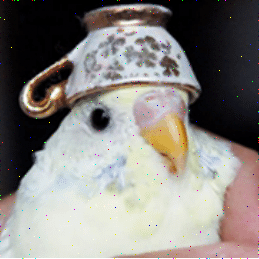
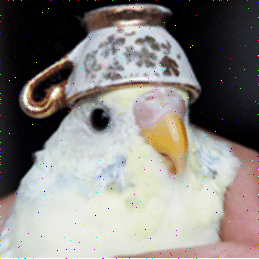
changed p parameter to p1 and p2 to addNoise, updated docstrings

diff --git a/utils.py b/utils.py
@@ -98,7 +98,7 @@ def combineChannels(R, G, B):
 
     return img
 
-def addNoise(channel, p=0.5, is_noisy=None):
+def addNoise(channel, p1=0.47, p2=0.47, is_noisy=None):
     '''
     Add randomized noise to channel.
 
@@ -106,9 +106,12 @@ def addNoise(channel, p=0.5, is_noisy=None):
     ----------
     channel : numpy.ndarray
         2-dimensional channel array.
-    p : float, optional
-        Probability of a pixel being converted to noise, should be in the
-        range ``[0, 1)``.
+    p1 : float, optional
+        Probability of a pixel being converted to positive impulse noise,
+        should be in the range ``[0, 1)``.
+    p2 : float, optional
+        Probability of a pixel being converted to negative impulse noise,
+        should be in the range ``[0, 1)``.
     is_noisy : numpy.ndarray, optional
         2-dimensional boolean array indicating which pixels should be
         converted to noise. If not provided, this is randomized.
@@ -120,7 +123,29 @@ def addNoise(channel, p=0.5, is_noisy=None):
     is_noisy : numpy.ndarray
         Boolean array of same shape as ``channel``, indicating which pixels
         have been converted to noise.
+
+    Notes
+    -----
+    This is an implementation of salt and pepper noise. A color channel
+    pixel :math:`x_k(i, j)` corrupted by impulsive noise is given by:
+
+    .. math::
+        x_k(i, j) = \\begin{cases}
+            s_k(i, j) & 1 - p_1 - p_2 \\\\[5pt]
+            255 & p_1 \\\\[5pt]
+            0 & p_2 \\\\[5pt]
+        \\end{cases}
+
+    where :math:`s_k(i, j)` is the original noiseless pixel and :math:`p_1`
+    and :math:`p_2` are probabilities of a pixel being positive and
+    negative impulsive noise respectively.
     '''
+
+    # if probabilities are not between 0 and 1, raise error
+    if p1 < 0 or p1 >= 1 or p2 < 0 or p2 >= 1 or p1 + p2 >= 1:
+        err_msg = 'p1, p2 must be in range [0, 1), and '
+        err_msg += 'p1 + p2 must not exceed 1'
+        raise ValueError(err_msg)
 
     noisy_channel = channel.copy()
     channel_shape = np.shape(noisy_channel)
@@ -128,7 +153,7 @@ def addNoise(channel, p=0.5, is_noisy=None):
     # if is_noisy is not specified, randomize it
     if is_noisy is None:
         is_noisy = np.array(
-            np.random.rand(*channel_shape) < p,
+            np.random.rand(*channel_shape) < 1 - p1 - p2,
             dtype=bool,
         )
     else:
@@ -137,7 +162,7 @@ def addNoise(channel, p=0.5, is_noisy=None):
 
     # randomize noise array of values 0 or 255
     noise = np.array(
-        np.around(np.random.rand(*channel_shape)) * 255,
+        (np.random.rand(*channel_shape) < p1 / (p1 + p2)) * 255,
         dtype=np.uint8,
     )
 
@@ -227,6 +252,19 @@ def detectNoise(channel, N, E=53):
     numpy.ndarray
         Boolean array of same shape as ``channel``, indicating which pixels
         are noisy.
+
+    Notes
+    -----
+    Noise is detected by comparing each pixel in given ``channel`` to
+    median of ``NxN`` window surrounding the pixel. A pixel
+    :math:`x_k(i, j)` is labelled noise if it satisfies the following
+    condition:
+
+    .. math::
+        |x_k(i, j) - x_k^{MED}(i, j)| \\gt \\varepsilon
+
+    where :math:`x_k^{MED}(i, j)` is the median within the ``NxN`` window
+    and :math:`\\varepsilon` is the given threshold, ``E``.
     '''
 
     # N must be odd since we use centre pixel in each window
@@ -276,17 +314,20 @@ def getCandidate(C, A, idx):
     Candidates are calculated using the following computations:
 
     .. math::
-        \\hat{C}[4] &= \\frac{C[L] + C[R]}{2} \\\\
-        \\hat{C}[4] &= \\frac{C[L] + C[R]}{2} +
-        \\frac{-A[L] + 2A[4] - A[R]}{2}
+        \\hat{C}[4] &= \\frac{C[k] + C[l]}{2} \\\\[5pt]
+        \\hat{C}[4] &= \\frac{C[k] + C[l]}{2} +
+        \\frac{-A[k] + 2A[4] - A[l]}{2}
+
+    where :math:`C` and :math:`A` are flattened versions of ``3x3`` window
+    arrays, and :math:`k` and :math:`l` are given indices.
     '''
 
-    L, R = idx
+    k, l = idx
 
     # gradient term
-    grad = (int(C[L]) + int(C[R])) / 2
+    grad = (int(C[k]) + int(C[l])) / 2
     # laplacian term
-    lap = (-int(A[L]) + (2 * int(A[4])) - int(A[R])) / 2
+    lap = (-int(A[k]) + (2 * int(A[4])) - int(A[l])) / 2
 
     candidate_C = np.uint8(grad)
     candidate_CA = np.uint8(
@@ -326,20 +367,20 @@ def getValidity(is_noisy_C, is_noisy_A, idx):
     considered invalid.
     '''
 
-    L, R = idx
+    k, l = idx
 
     # validity using only C channel
     validity_C = (
-        (not is_noisy_C[L]) and
-        (not is_noisy_C[R])
+        (not is_noisy_C[k]) and
+        (not is_noisy_C[l])
     )
 
     # validity using C and A channels
     validity_CA = (
         validity_C and
-        (not is_noisy_A[L]) and
+        (not is_noisy_A[k]) and
         (not is_noisy_A[4]) and
-        (not is_noisy_A[R])
+        (not is_noisy_A[l])
     )
 
     return validity_C, validity_CA
@@ -371,17 +412,20 @@ def getDeference(C, A, idx):
     Candidates are calculated using the following computations:
 
     .. math::
-        \\hat{C}_{def}[4] &= |C[L] - C[R]| \\\\
-        \\hat{C}_{def}[4] &= ||C[L] - C[R]| - |A[L] - A[R]||
+        \\hat{C}_{def}[4] &= |C[k] - C[l]| \\\\[5pt]
+        \\hat{C}_{def}[4] &= ||C[k] - C[l]| - |A[k] - A[l]||
+
+    where :math:`C` and :math:`A` are flattened versions of ``3x3`` window
+    arrays, and :math:`k` and :math:`l` are given indices.
     '''
 
-    L, R = idx
+    k, l = idx
 
     # deference using only C channel
-    deference_C = abs(int(C[L]) - int(C[R]))
+    deference_C = abs(int(C[k]) - int(C[l]))
     # deference using C and A channels
     deference_CA = abs(
-        deference_C - abs(int(A[L]) - int(A[R]))
+        deference_C - abs(int(A[k]) - int(A[l]))
     )
 
     return deference_C, deference_CA

diff --git a/noisify.py b/noisify.py
@@ -13,7 +13,7 @@ from utils import (
 # usage string
 USAGE = 'Usage:'
 USAGE += '\n\tnoisify.py src dest '
-USAGE += '[-p noise_density]'
+USAGE += '[-p positive_impulse_density] [-n negative_impulse_density]'
 
 if __name__ == '__main__':
     # exit if not enough arguments
@@ -25,12 +25,13 @@ if __name__ == '__main__':
     src = sys.argv[1]
     # image file destination
     dest = sys.argv[2]
-    # noise density
-    p = 0.5
+    # impulsive noise densities
+    p = 0.47
+    n = 0.47
 
     # parse command line arguments
     try:
-        opts, _ = getopt.getopt(sys.argv[3:], 'p:')
+        opts, _ = getopt.getopt(sys.argv[3:], 'p:n:')
     except getopt.GetoptError:
         print(USAGE)
         sys.exit(1)
@@ -39,10 +40,15 @@ if __name__ == '__main__':
         if opt == '-p':
             try:
                 p = float(arg)
-                if p < 0 or p > 1:
-                    raise ValueError
             except:
-                print('Error: p must be a float in range [0, 1]')
+                print('Error: p must be a float in range [0, 1)')
+                print(USAGE)
+                sys.exit(1)
+        elif opt == '-n':
+            try:
+                n = float(arg)
+            except:
+                print('Error: n must be a float in range [0, 1)')
                 print(USAGE)
                 sys.exit(1)
 
@@ -51,9 +57,9 @@ if __name__ == '__main__':
     R, G, B = splitChannels(img)
 
     # add noise to all 3 channels
-    R, _ = addNoise(R, p)
-    G, _ = addNoise(G, p)
-    B, _ = addNoise(B, p)
+    R, _ = addNoise(R, p1=p, p2=n)
+    G, _ = addNoise(G, p1=p, p2=n)
+    B, _ = addNoise(B, p1=p, p2=n)
 
     # combine RGB channels and save image
     img = combineChannels(R, G, B)
